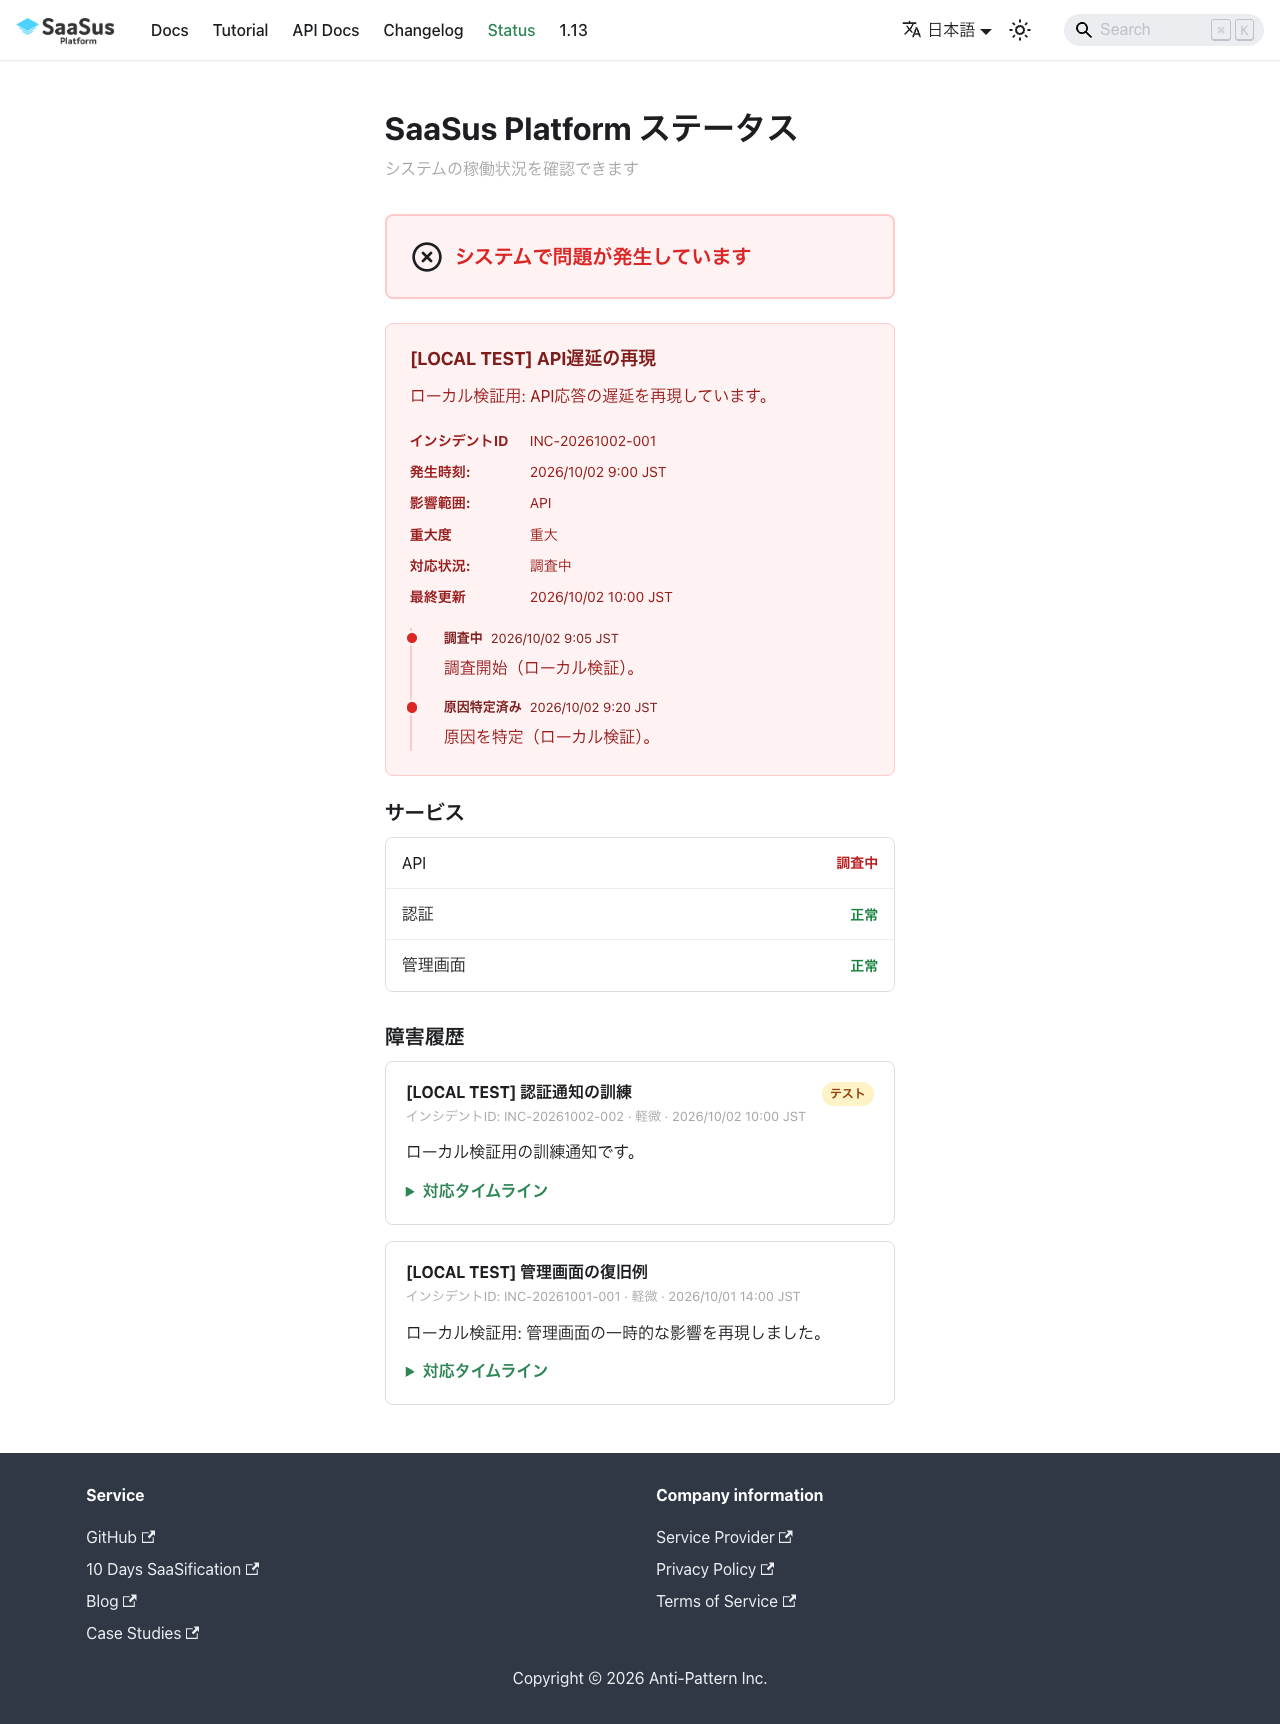
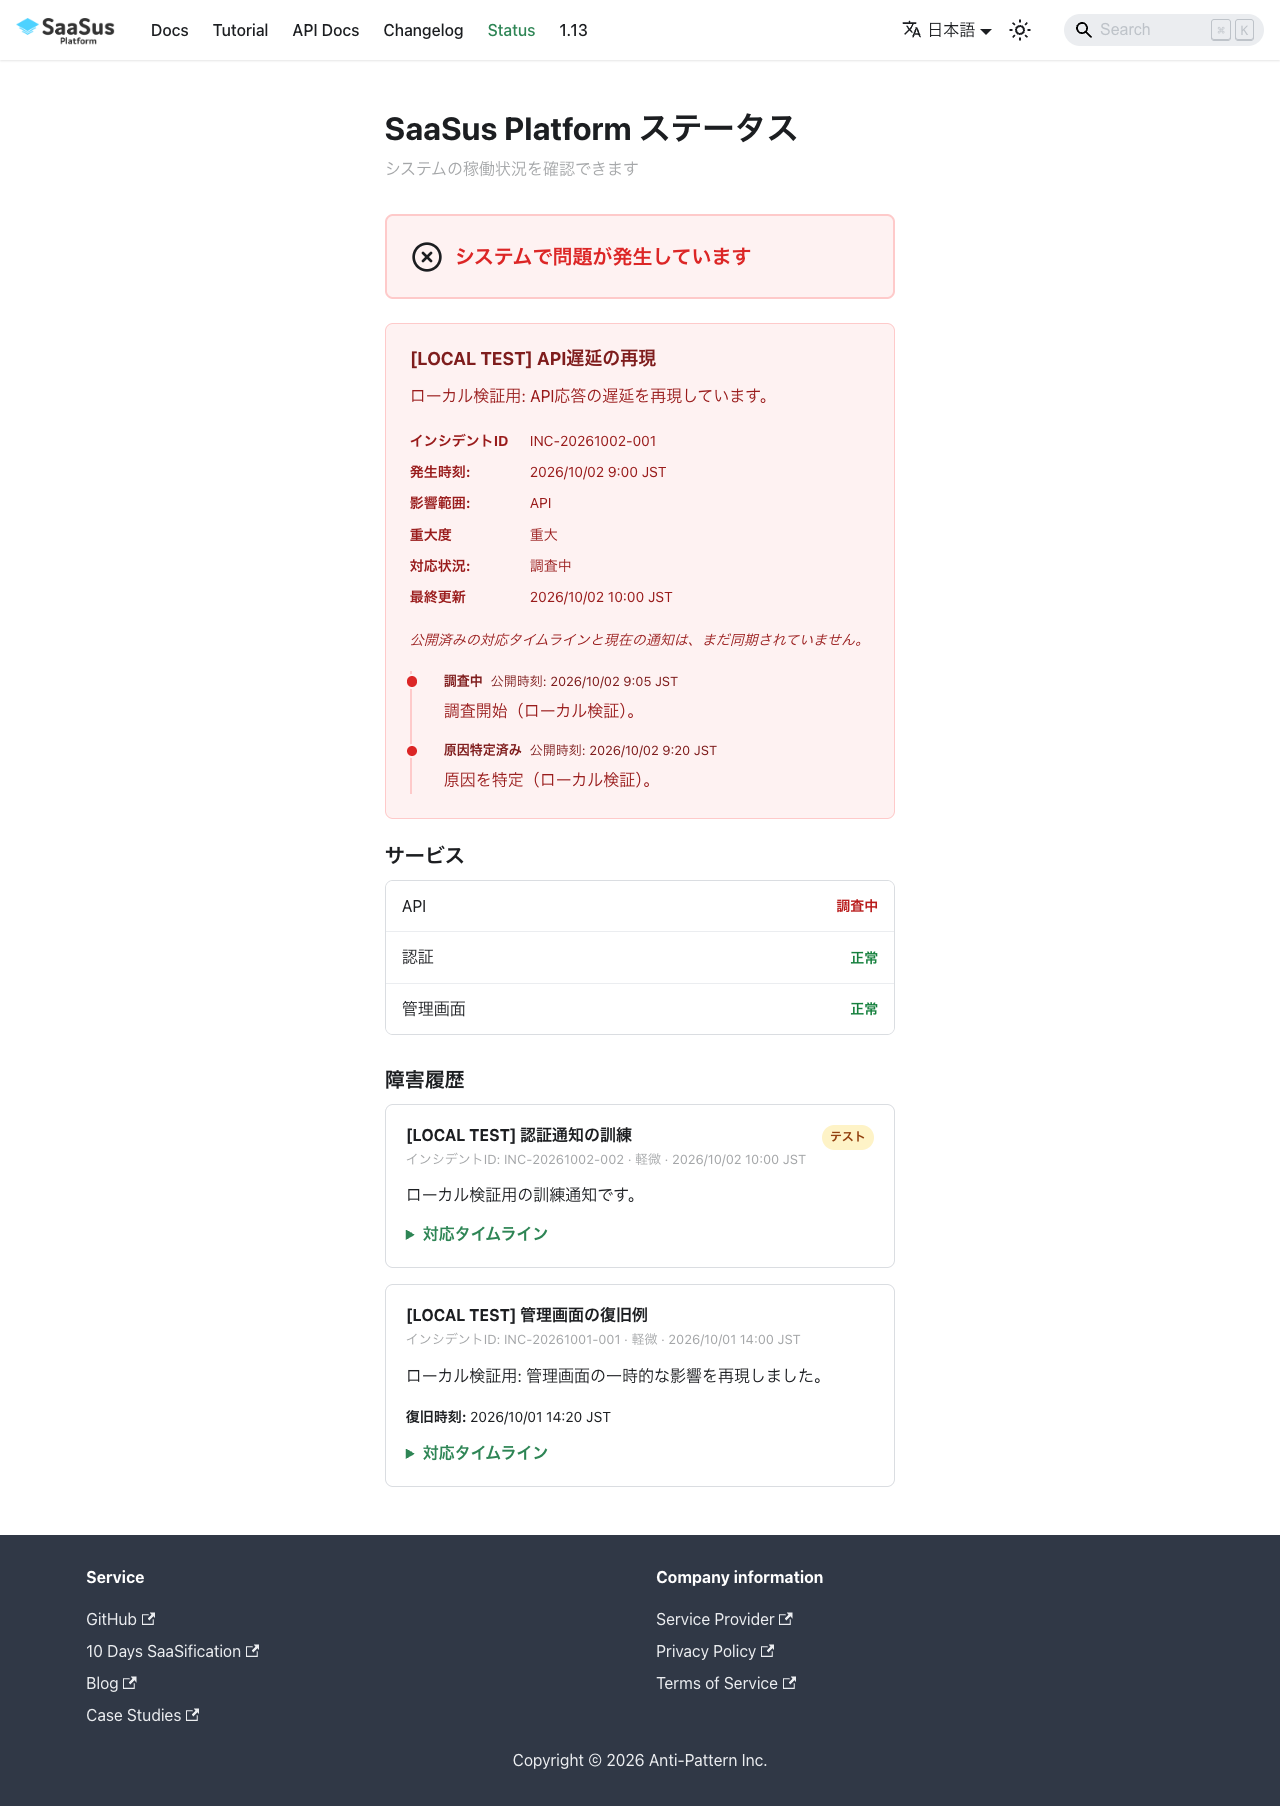
fix: reconcile live incident notices and published history

diff --git a/src/pages/status.tsx b/src/pages/status.tsx
@@ -52,6 +52,7 @@ function normalizeIncidentFlag(value: unknown): IncidentFlag | null {
   if (!value || typeof value !== 'object' || Array.isArray(value)) return null;
   const raw = value as Record<string, unknown>;
   if (typeof raw.enabled !== 'boolean') return null;
+  if (raw.isTest !== undefined && typeof raw.isTest !== 'boolean') return null;
   const text = (key: string): string | undefined => {
     const field = raw[key];
     return typeof field === 'string' && field.trim() ? field.trim() : undefined;
@@ -173,13 +174,24 @@ function IncidentTimeline({
               {statusLabel(update.status, locale)}
             </span>
             <time dateTime={update.publishedAt}>
-              {formatTimestamp(update.publishedAt, locale)}
+              <Translate id="status.incident.publishedAt">Published</Translate>
+              {': '}{formatTimestamp(update.publishedAt, locale)}
             </time>
           </div>
           <p>{localized(update.message, locale)}</p>
         </li>
       ))}
     </ol>
+  );
+}
+
+function IncidentRecoveryTime({ record, locale }: { record: IncidentRecord; locale: Locale }) {
+  if (!record.resolvedAt) return null;
+  return (
+    <p className={styles.recoveryTime}>
+      <strong><Translate id="status.incident.resolvedAt">Recovered at</Translate>{': '}</strong>
+      <time dateTime={record.resolvedAt}>{formatTimestamp(record.resolvedAt, locale)}</time>
+    </p>
   );
 }
 
@@ -208,10 +220,16 @@ function CurrentIncidentCard({
     : locale === 'ja'
       ? incident.affectedServicesJa
       : incident.affectedServicesEn;
-  const currentStatusText =
-    locale === 'ja' ? incident.statusTextJa : incident.statusTextEn;
+  const legacyStatusText = locale === 'ja' ? incident.statusTextJa : incident.statusTextEn;
+  const currentStatusText = isIncidentStatus(incident.currentStatus) || record
+    ? statusLabel(activeStatus, locale)
+    : legacyStatusText || statusLabel(activeStatus, locale);
   const isTest = incident.isTest || record?.isTest;
   const isResolved = activeStatus === 'resolved';
+  const timelineIsPending = record && (
+    activeStatus !== latestUpdate(record).status ||
+    (isIsoUtc(incident.updatedAt) && Date.parse(incident.updatedAt) > Date.parse(latestUpdate(record).publishedAt))
+  );
 
   return (
     <section id={record?.id} className={styles.currentIncidentSection} aria-labelledby="current-incident">
@@ -264,7 +282,7 @@ function CurrentIncidentCard({
           )}
           <div>
             <dt><Translate id="status.incident.statusText">Status</Translate></dt>
-            <dd>{currentStatusText || statusLabel(activeStatus, locale)}</dd>
+            <dd>{currentStatusText}</dd>
           </div>
           {incident.updatedAt && (
             <div>
@@ -273,6 +291,14 @@ function CurrentIncidentCard({
             </div>
           )}
         </dl>
+        {record && <IncidentRecoveryTime record={record} locale={locale} />}
+        {timelineIsPending && (
+          <p className={styles.updatePending} role="status">
+            <Translate id="status.incident.timelinePending">
+              The published timeline is not yet synchronized with the current notification.
+            </Translate>
+          </p>
+        )}
         {record ? (
           <IncidentTimeline record={record} locale={locale} />
         ) : (
@@ -305,7 +331,6 @@ function IncidentHistory({
     const revealLinkedIncident = () => {
       const incidentId = window.location.hash.slice(1);
       const index = records.findIndex((record) => record.id === incidentId);
-      if (index < 0) return;
       if (index >= visibleCount) {
         setVisibleCount(Math.ceil((index + 1) / HISTORY_PAGE_SIZE) * HISTORY_PAGE_SIZE);
         return;
@@ -356,6 +381,7 @@ function IncidentHistory({
                 )}
               </div>
               <p>{localized(record.impact, locale)}</p>
+              <IncidentRecoveryTime record={record} locale={locale} />
               <details className={styles.historyDetails}>
                 <summary>
                   <Translate id="status.history.timeline">Response timeline</Translate>

diff --git a/src/data/status/incidents.ts b/src/data/status/incidents.ts
@@ -53,7 +53,7 @@ export const statusComponents: readonly StatusComponent[] = [
   },
 ];
 
-const statusComponentIds = new Set(statusComponents.map((component) => component.id));
+const statusComponentsById = new Map(statusComponents.map((component) => [component.id, component]));
 
 /**
  * Public incident history. Keep this empty until a real incident or an
@@ -142,10 +142,17 @@ export function validateIncidentRecords(
         errors.push(
           `${prefix}.affectedComponents[${componentIndex}] must contain an ID and localized name`,
         );
-      } else if (!statusComponentIds.has(component.id)) {
-        errors.push(
-          `${prefix}.affectedComponents[${componentIndex}].id is not registered in statusComponents: ${component.id}`,
-        );
+      } else {
+        const canonical = statusComponentsById.get(component.id);
+        if (!canonical) {
+          errors.push(
+            `${prefix}.affectedComponents[${componentIndex}].id is not registered in statusComponents: ${component.id}`,
+          );
+        } else if (component.name.ja !== canonical.name.ja || component.name.en !== canonical.name.en) {
+          errors.push(
+            `${prefix}.affectedComponents[${componentIndex}].name must match statusComponents: ${component.id}`,
+          );
+        }
       }
     });
 

diff --git a/src/pages/status.module.css b/src/pages/status.module.css
@@ -359,3 +359,8 @@
 .showMore {
   justify-self: center;
 }
+
+.recoveryTime {
+  margin: 1rem 0 0;
+  font-size: 0.875rem;
+}
